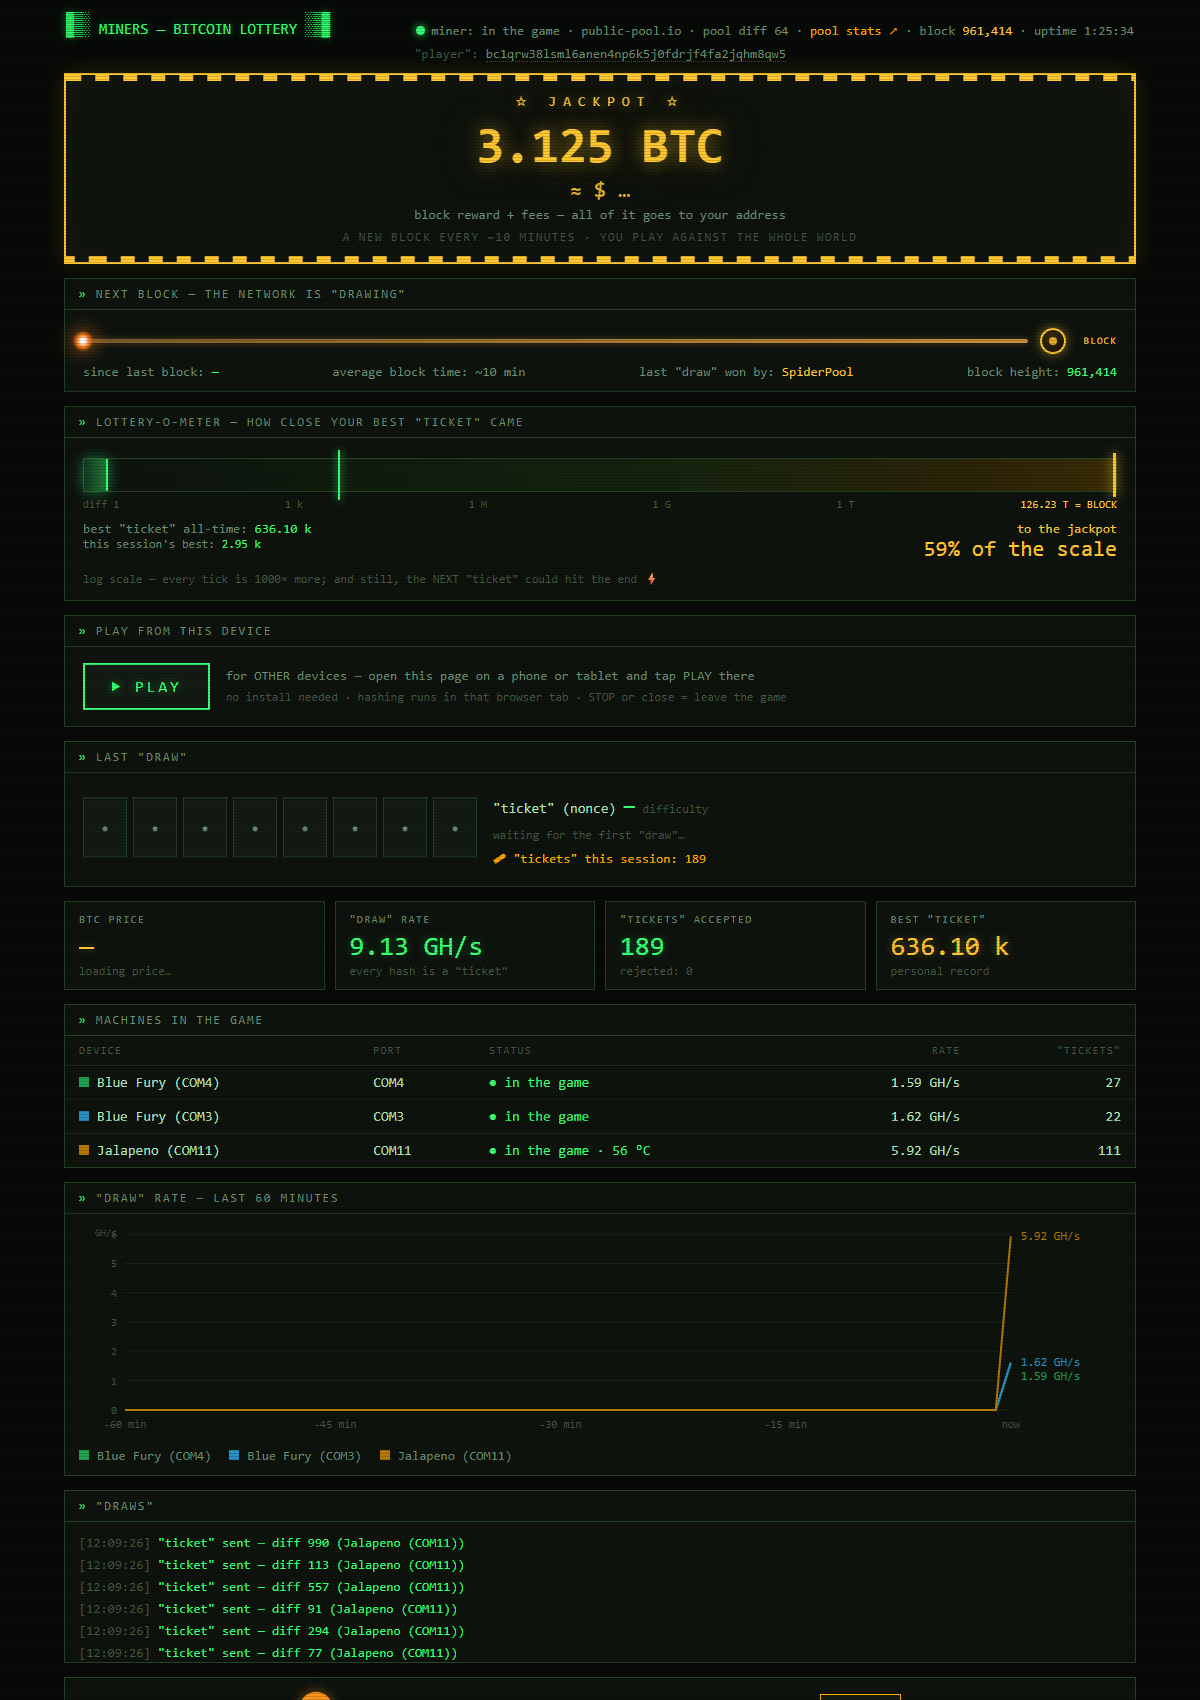
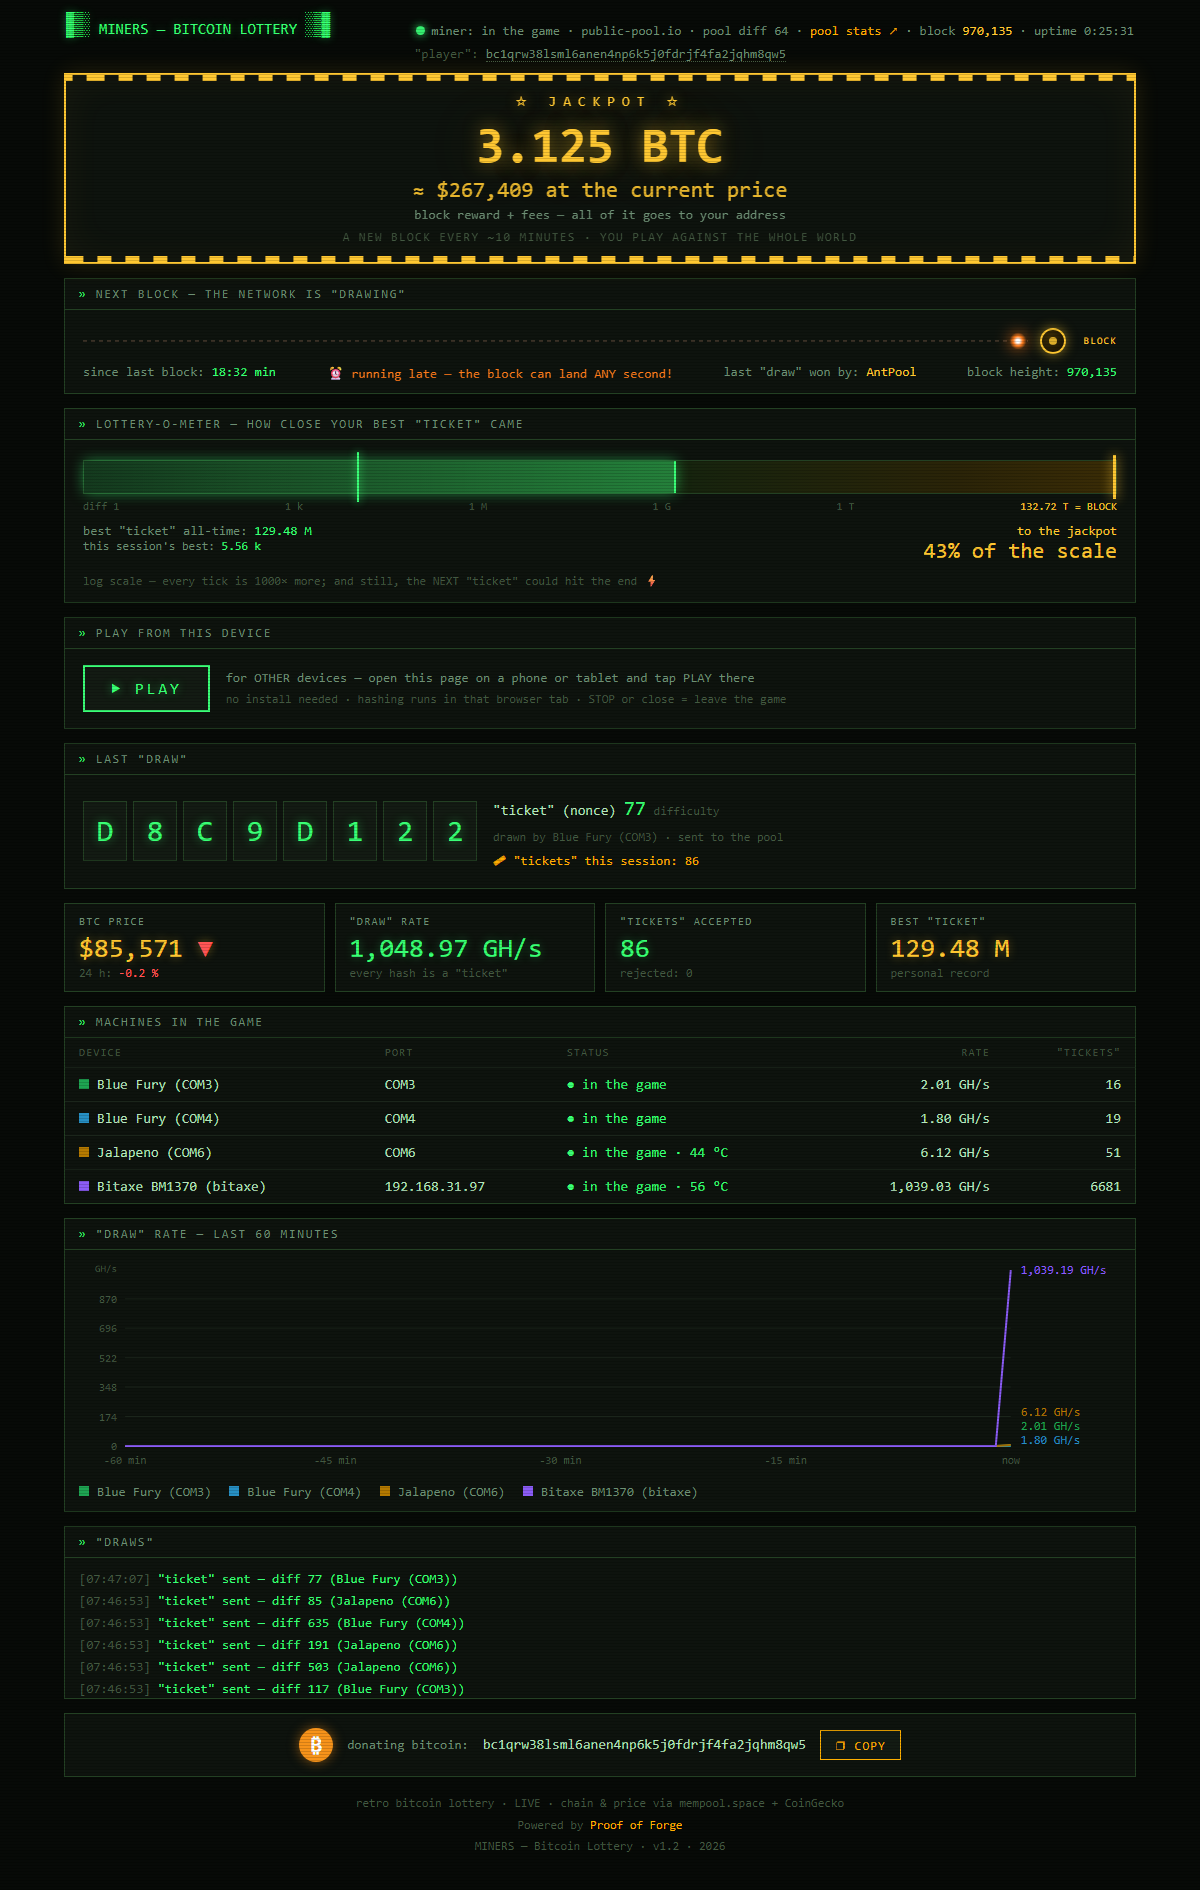
v1.2: document Bitaxe & friends, refresh the fleet screenshot
Twenty-four changes since v1.1 brought modern AxeOS miners and
pool-only workers onto the dashboard, but none of it was written down:
the README, the example config and HARDWARE.md still described a
sticks-only miner, so nobody downloading it could find the new options.

- README: a section on axeos_devices and pool_workers, what the miner
  does when AxeOS reports nonsense or the Wi-Fi drops, and the new keys
  (pool_host/pool_port, pool_user, axeos_devices, pool_workers).
- HARDWARE.md: Bitaxe moves from "planned" to supported on the
  dashboard, with measured numbers from a Gamma 601, the NerdMiner via
  the pool, and the warning that ours arrived set to the seller's
  address in both the main and the fallback pool.
- README.txt and config.example.json carry the same keys.
- New screenshot: two 2013 Blue Fury sticks, a Jalapeno and a Bitaxe.
- Version strings to 1.2.

diff --git a/dashboard.html b/dashboard.html
@@ -335,7 +335,7 @@
   <footer>
     <div>retro bitcoin lottery · LIVE · chain &amp; price via mempool.space + CoinGecko</div>
     <div>Powered by <a href="https://proofofforge.com/" target="_blank" rel="noopener">Proof of Forge</a></div>
-    <div>MINERS — Bitcoin Lottery · v1.0 · 2026</div>
+    <div>MINERS — Bitcoin Lottery · v1.2 · 2026</div>
   </footer>
 </div>
 

diff --git a/miner.py b/miner.py
@@ -401,7 +401,7 @@ class Stratum:
 def connect_pool(worker: str, diff: float, name: str) -> Stratum:
     """Connect + subscribe + authorize one Stratum session; wait for the first job."""
     st = Stratum(POOL_HOST, POOL_PORT, name)
-    st.send("mining.subscribe", ["miners-bitcoin-lottery/1.0"])
+    st.send("mining.subscribe", ["miners-bitcoin-lottery/1.2"])
     st.send("mining.authorize", [worker, "x"])
     st.send("mining.suggest_difficulty", [diff])
     start = time.time()

diff --git a/README.md b/README.md
@@ -1,7 +1,9 @@
 # MINERS — Bitcoin Lottery ⛏🎰
 
 **A pure-Python solo ("lottery") Bitcoin miner for retro USB ASIC sticks from 2013,
-with a retro-CRT web dashboard.** No binaries. No dependencies except `pyserial`.
+with a retro-CRT web dashboard — and a place on that same dashboard for the modern
+open-source miners (Bitaxe & co.) that play the same lottery today.**
+No binaries. No dependencies except `pyserial`.
 Every line of code is readable — because you should never run mining software you
 can't read (see the warning below).
 
@@ -10,7 +12,7 @@ can't read (see the warning below).
 > your ticket is real, the drawing happens every ~10 minutes, and somebody always wins.
 > While you play, you live. 🙂
 
-![The Bitcoin Lottery dashboard — live view with two Blue Fury sticks in the game](docs/dashboard.png)
+![The Bitcoin Lottery dashboard — two 2013 Blue Fury sticks, a Butterfly Labs Jalapeño and a Bitaxe in one game](docs/dashboard.png)
 
 ## Supported hardware
 
@@ -19,6 +21,9 @@ can't read (see the warning below).
 | Blue Fury / Red Fury (BF1) | Bitfury, binary protocol | ~2.6 GH/s | ✅ mining, multi-stick + hotplug |
 | Butterfly Labs Jalapeño (BFLSC) | 2× BFL SC, text protocol | ~4.5–5.3 GH/s | ✅ mining, hotplug, temp watch |
 | Bi•Fury (BXF) | 2× Bitfury, text protocol | ~5 GH/s | identification branch only |
+
+Machines that mine on their own can sit on the same dashboard — see
+[*Bitaxe and friends*](#bitaxe-and-friends-on-the-same-dashboard-) below.
 
 **Got an old stick in a drawer?** → **[Does my old USB Bitcoin miner still work?](HARDWARE.md)**
 — what is supported, what is not (yet), how to find out which device you have, and
@@ -60,6 +65,43 @@ its own SHA-256 implementation (~0.3–1 MH/s per device; validated against hist
 block 125552) and reports candidates to `/submit`, which verifies every one before
 submitting it to the pool. Set `browser_mining` to `false` in `config.json` to disable.
 
+## Bitaxe and friends on the same dashboard ⚡
+
+Modern open-source miners (Bitaxe Gamma/Supra/Ultra, NerdQAxe, NerdOCTAxe — anything
+running **AxeOS**) talk to the pool by themselves; this miner never sends them work.
+It can still put them in *Machines in the game*, next to the 2013 sticks:
+
+```json
+"axeos_devices": ["192.168.1.50"]
+```
+
+The miner reads `http://<ip>/api/system/info` every 10 s and shows the device's
+hashrate, temperature and tickets, and announces in the draws feed whenever it
+beats its own best ticket.
+
+Two things learned on a real Gamma 601, both handled for you:
+
+- **AxeOS's own hashrate figure is not to be trusted.** We have seen it report
+  401 TH/s from a 20 W board one afternoon and a flat 0 the next morning, while the
+  pool kept paying it tickets. Anything outside 0.1–3× the board's expected rate is
+  replaced by what **the pool** measures for that worker (averaged over ~20 minutes,
+  because a pool's short windows swing on luck alone).
+- **Wi-Fi drops are not a dead device.** A board that can't be reached is kept on the
+  dashboard, as the pool sees it, until the pool stops seeing it too.
+
+**A miner with no API at all** (a NerdMiner, a friend's rig mining to your address)
+can still be shown — the pool is the sensor:
+
+```json
+"pool_workers": ["nerdminer"]
+```
+
+Only the names you list are shown, so nothing is counted twice.
+
+> ⚠ **Check the payout address on any pre-built miner before you plug it in.**
+> Our Bitaxe arrived configured to mine to the *seller's* address — in the main pool
+> **and** in the fallback pool. It would have won them the block. Look at both.
+
 `config.json` options:
 
 | Key | Default | Meaning |
@@ -72,6 +114,10 @@ submitting it to the pool. Set `browser_mining` to `false` in `config.json` to d
 | `browser_mining` | `true` | allow phones/PCs to join via the dashboard's PLAY button |
 | `suggest_difficulty` | `256` | share difficulty asked for the sticks |
 | `dashboard_port` | `8888` | the dashboard/stats web port |
+| `pool_host` / `pool_port` | `public-pool.io` / `21496` | the Stratum pool |
+| `pool_user` | `""` | pool login when it is not your address (Braiins, Ocean…); empty = use `btc_address` |
+| `axeos_devices` | `[]` | IP addresses of Bitaxe-style miners to show on the dashboard |
+| `pool_workers` | `[]` | worker names to show as seen by the pool (miners with no API) |
 
 ## FAQ (the honest basics)
 
@@ -139,6 +185,7 @@ Windows then binds the stock `usbser` driver and a COM port appears.
 | `jalapeno_test.py` | BFLSC (Jalapeño) known-block self-test |
 | `identify.py` | identify connected sticks |
 | `dashboard.html` | the Bitcoin Lottery dashboard (works double-clicked or served at `:8888`) |
+| `telegram_report.py` / `telegram_bot.py` | optional daily report and remote control over Telegram (stdlib only) |
 | `START_MINING.bat` | double-click launcher (logs to `miner.log`) |
 | `NOTEBOOK_FIX_USB.bat` | one-off laptop fix: stop Windows suspending your USB miners |
 | `lottery_best.json` | your best "ticket" ever (persistent) |

diff --git a/HARDWARE.md b/HARDWARE.md
@@ -39,15 +39,24 @@ Nobody here owns one of these. If you do and you want it to work, open an issue
 
 ## Devices that mine on their own
 
-These do **not** need this software: they run their own firmware and talk to a
-pool by themselves. Point them at your own address and they play the same
-lottery.
+These do **not** need this software to mine: they run their own firmware and
+talk to a pool by themselves. Point them at your own address and they play the
+same lottery — and this project can still show them on its dashboard.
 
 | Device | What this project can do with it |
 |---|---|
-| **Bitaxe** (Ultra / Supra / Gamma, BM1366–BM1370) | Runs AxeOS, which has an HTTP API — showing it on the dashboard alongside the old sticks is planned. |
-| **NerdMiner / NMMiner** (ESP32) | No local API to read; it will show up as a worker on your pool, but not on the dashboard. |
-| **Antminer S9 and friends** | Has the cgminer API on port 4028 — readable in principle, same idea as AxeOS. |
+| **Bitaxe** (Ultra / Supra / Gamma, BM1366–BM1370), NerdQAxe, NerdOCTAxe — anything on **AxeOS** | ✅ **On the dashboard** with `"axeos_devices": ["<ip>"]` — hashrate, temperature, tickets, new-best announcements. Tested live on a **Bitaxe Gamma 601: ~0.9–1.05 TH/s at 20 W, 57–61 °C** (sold as 1.2–1.5 TH/s). |
+| **NerdMiner / NMMiner** (ESP32) | No local API, but it shows up on the dashboard **through the pool** with `"pool_workers": ["<worker name>"]`. ~70–80 kH/s: a desk ornament, not a contribution — a Bitaxe does in one second what it does in five months. |
+| **Antminer S9 and friends** | Has the cgminer API on port 4028 — readable in principle, same idea as AxeOS. Not done yet. |
+
+**Before you power up any pre-built miner, check where it pays.** Our Bitaxe came
+configured with the **seller's** address in both the primary and the fallback pool
+(`stratumUser` and `fallbackStratumUser` in AxeOS). Fix both.
+
+**Don't trust AxeOS's own hashrate number.** On the Gamma 601 it has reported
+401 TH/s and, for weeks, a flat 0 — while the board drew 20 W and the pool kept
+accepting its tickets. Its own OLED and the pool were right; the API field was not.
+The dashboard therefore cross-checks it against the pool.
 
 ---
 
